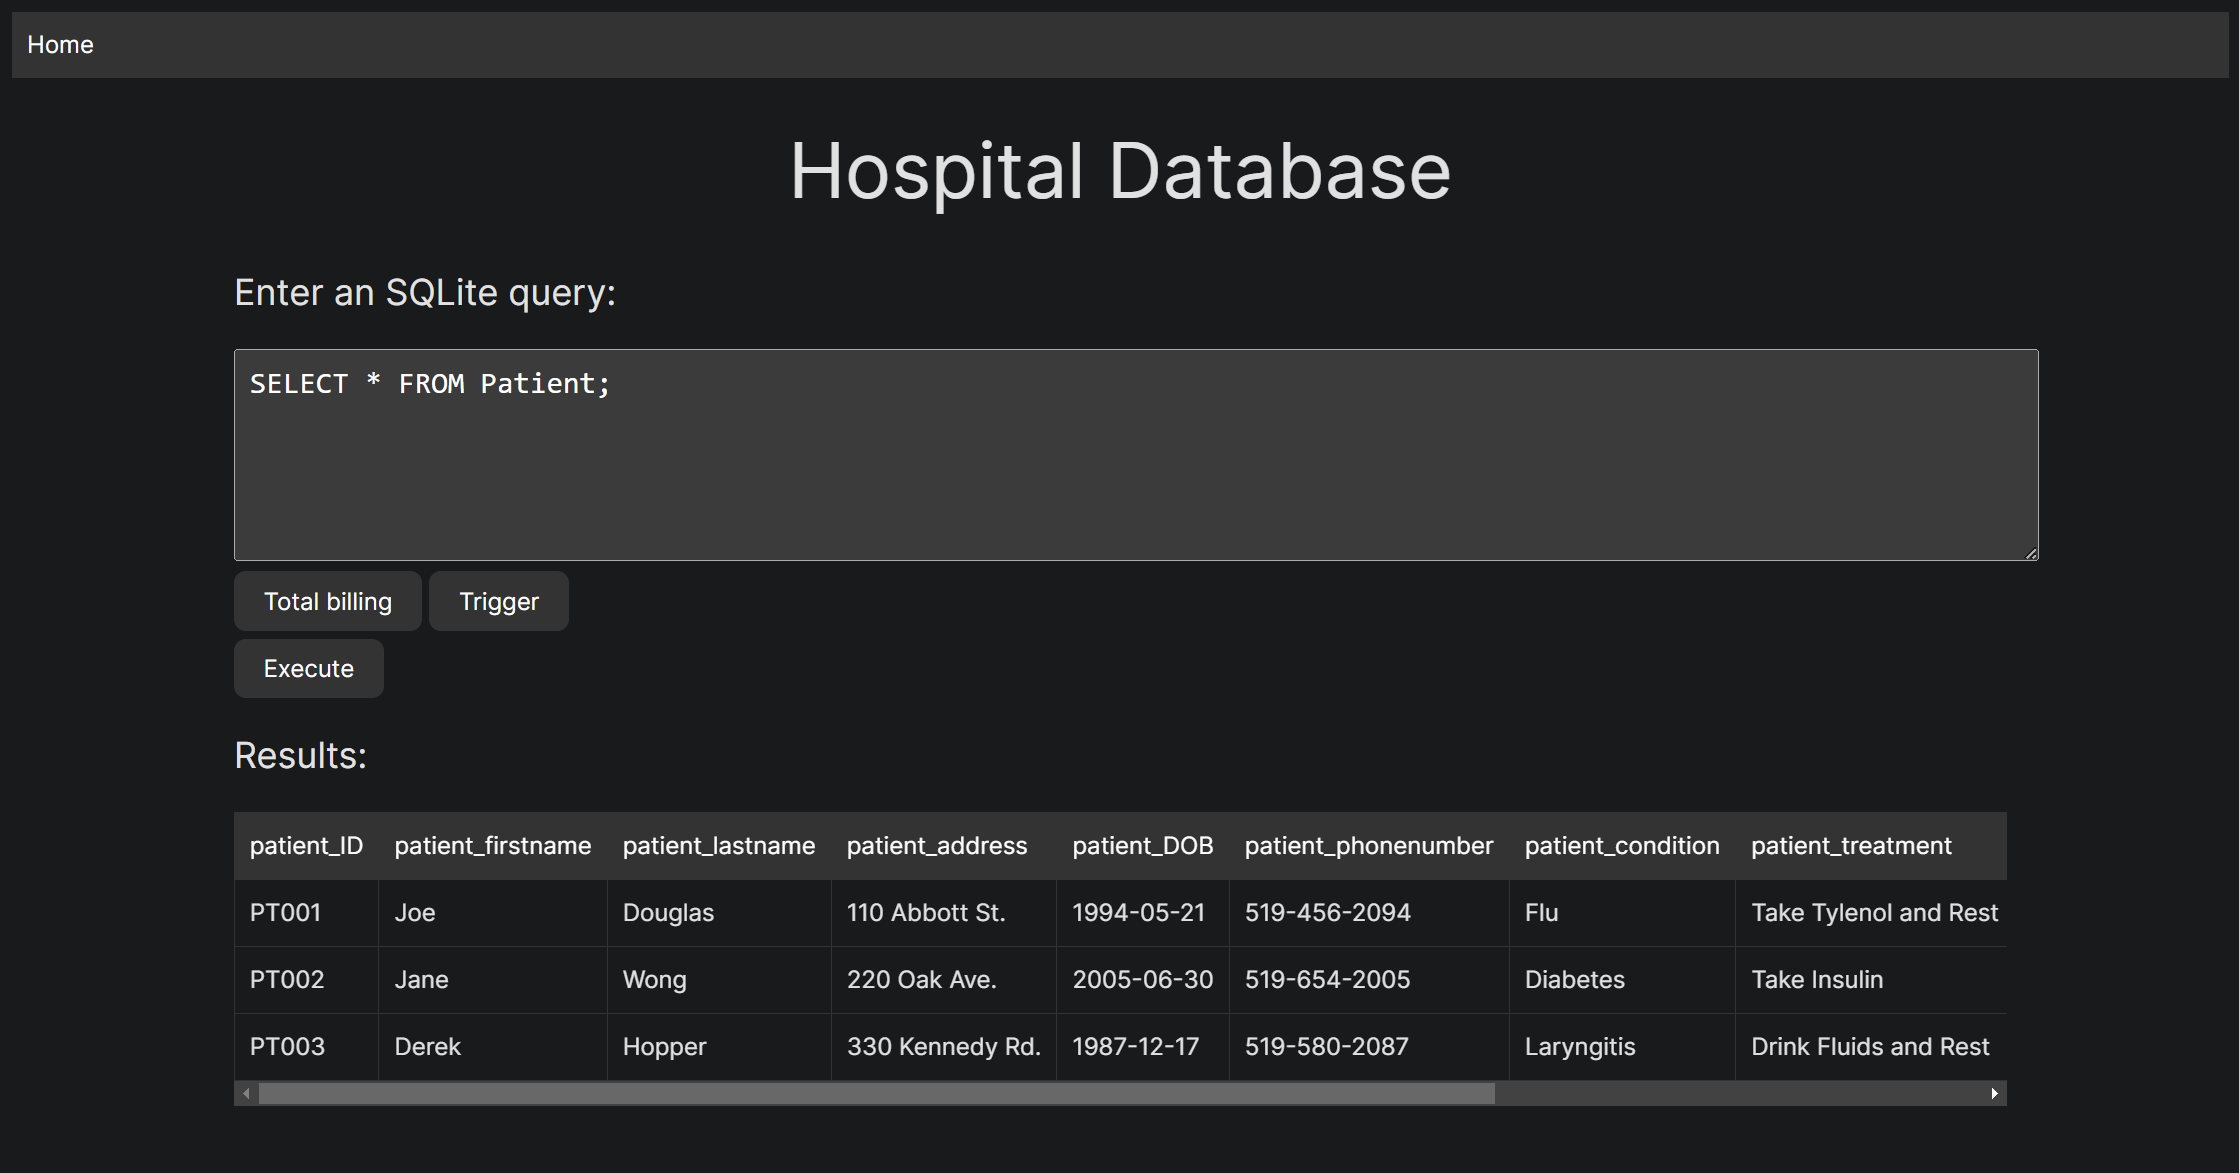
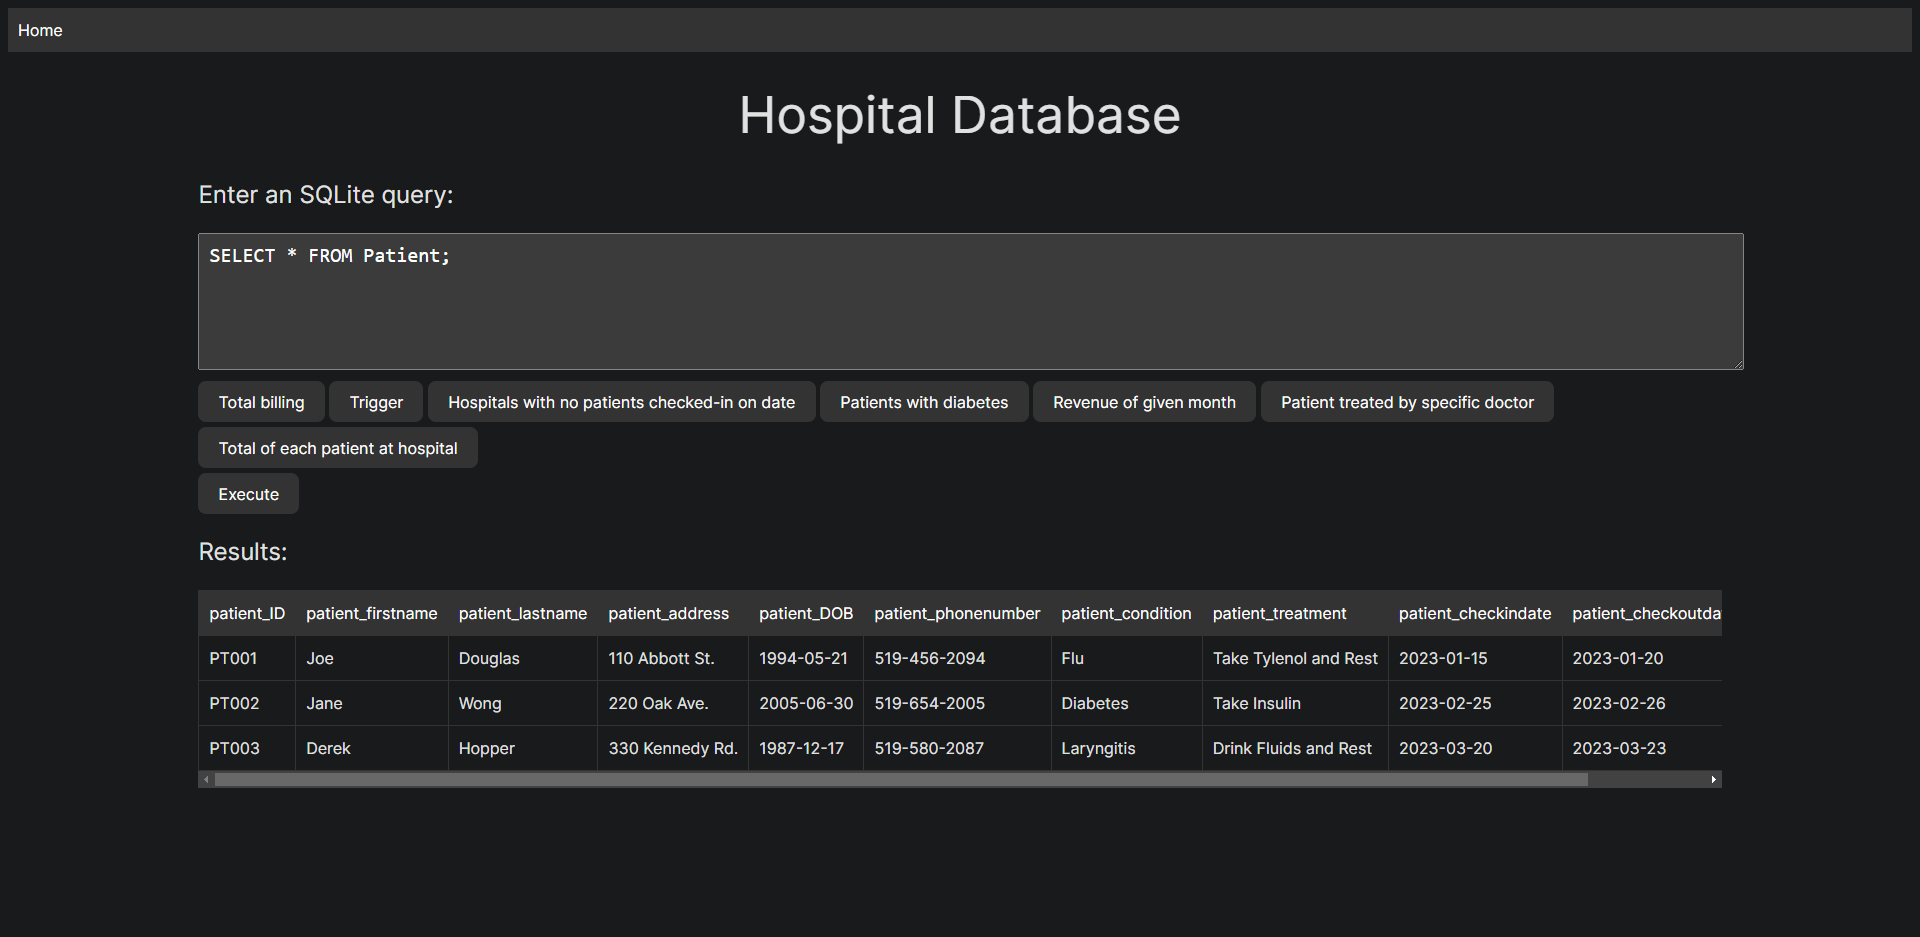
Added tons of queries

Changed region(s): [[0.0938, 0.3714, 0.9375, 0.9594], [0.0, 0.0309, 1.0, 0.1857], [0.0938, 0.1857, 0.9062, 0.3404]]

diff --git a/src/static/style.css b/src/static/style.css
@@ -78,6 +78,8 @@ input[type="submit"] {
   background-color: #333;
   cursor: pointer;
   transition: border-color 0.25s;
+  text-align: left;
+  margin-top: 5px;
 }
 
 button:hover,
@@ -90,10 +92,6 @@ button:focus-visible,
 input[type="submit"]:focus,
 input[type="submit"]:focus-visible {
   outline: 4px auto -webkit-focus-ring-color;
-}
-
-input[type="submit"] {
-  margin-top: 5px;
 }
 
 .error {

diff --git a/src/app.py b/src/app.py
@@ -17,7 +17,8 @@ connection.commit()
 # Define a route for the home page
 @app.route('/', methods=['GET', 'POST'])
 def home():
-    query_dict = {"Total billing": """-- Query 1: Each hospital location's total amount in billing 
+    query_dict = {
+"Total billing": """-- Query 1: Each hospital location's total amount in billing 
 -- Retrieves the total billing amount for each hospital via joining the Hospital and Billing tables first (through hospital_ID)
 -- It calculates the sum total value of billing_amount based on each hospital (uses SUM()) 
 -- Then it joins the Patient table on hospital_ID
@@ -28,6 +29,7 @@ FROM Hospital hospital
 INNER JOIN Billing billing ON patient.patient_ID = billing.patient_ID
 INNER JOIN Patient patient ON hospital.hospital_ID = patient.hospital_ID
 GROUP BY hospital.hospital_name;""",
+
 "Trigger": """-- Query 2: Send Error message/trigger warning when Patient's date of check-in is chronological and valid after their check-out date
 -- 'trigger_validchronDate' is the trigger used to validate a given patient date of hospital check-in when a tuple is newly inputted within table of "Patient"
 -- If a given patient's date of check-in is after ('greater than') their check-out, then a trigger will be thus raised (as it should only be before or on the check-out date)
@@ -38,7 +40,84 @@ FOR EACH ROW
 WHEN NEW.patient_checkindate > NEW.patient_checkoutdate
 BEGIN
     SELECT RAISE(ABORT, 'Error: The patient should check-in on a date that is identical to or before the date they checked out!');
-END;"""}
+END;""",
+
+"Hospitals with no patients checked-in on date" :"""-- Query 3: Display the list of hospitals that have no patients checked-in on a given date, along with their locations.
+-- uses a left join to include all hospitals in the result, and filters out the ones that have patients checked-in on a specific date.
+-- It selects the hospital name and location, and uses the DISTINCT keyword to remove duplicates.
+
+SELECT DISTINCT h.hospital_name, h.hospital_location
+FROM Hospital h
+LEFT JOIN Patient p ON h.hospital_ID = p.hospital_ID
+WHERE p.patient_checkindate <> '2023-03-20' OR p.patient_checkindate IS NULL;""",
+
+"Patients with diabetes": """-- Query 4: retrieves information about patients who have the condition "Diabetes", including their ID, name, condition, treatment, their assigned doctor's ID and name, as well as the name and location of the hospital they're staying in.
+-- The query achieves this by joining the Patient, Patients_Doctors, Doctor, and Hospital tables using their foreign keys.
+-- Uses '||' to concatenate
+
+SELECT 
+    p.patient_ID, 
+    p.patient_firstname || ' ' || p.patient_lastname AS patient_name, 
+    p.patient_condition, 
+    p.patient_treatment, 
+    d.doctor_ID, 
+    d.doctor_firstname || ' ' || d.doctor_lastname AS doctor_name, 
+    h.hospital_name, 
+    h.hospital_location 
+FROM 
+    Patient p 
+    INNER JOIN Patients_Doctors pd ON p.patient_ID = pd.patient_ID 
+    INNER JOIN Doctor d ON pd.doctor_ID = d.doctor_ID 
+    INNER JOIN Hospital h ON p.hospital_ID = h.hospital_ID 
+WHERE 
+    p.patient_condition = 'Diabetes';""",
+
+"Revenue of given month": """-- Query 5: total revenue generated by each hospital and pharmacy in a given month, along with their location
+-- uses a union of two queries to combine the revenue generated by hospitals and pharmacies in a given month
+-- uses left joins to include all hospitals and pharmacies in the result, even if they have no patients
+-- uses the GROUP BY clause to aggregate the billing amounts for each facility, and selects the facility name, location, and revenue
+
+SELECT h.hospital_name AS facility_name, h.hospital_location AS facility_location, SUM(b.billing_amount) AS revenue
+FROM Hospital h
+LEFT JOIN Patient p ON h.hospital_ID = p.hospital_ID
+LEFT JOIN Billing b ON p.patient_ID = b.patient_ID
+WHERE b.billing_date BETWEEN '2023-01-01' AND '2023-01-31'
+GROUP BY h.hospital_ID
+UNION ALL
+SELECT ph.pharmacy_name AS facility_name, ph.pharmacy_location AS facility_location, SUM(b.billing_amount) AS revenue
+FROM Pharmacy ph
+LEFT JOIN Patient p ON ph.pharmacy_ID = p.patient_ID
+LEFT JOIN Billing b ON p.patient_ID = b.patient_ID
+WHERE b.billing_date BETWEEN '2023-01-01' AND '2023-01-31'
+GROUP BY ph.pharmacy_ID;""",
+
+"Patient treated by specific doctor": """-- Query 6: patients who have been treated by a specific doctor and the nurses who have assisted in their treatment
+-- several JOIN statements to connect different tables in the database
+-- use the WHERE clause to filter the results based on the doctor's first and last name
+
+SELECT p.patient_ID, p.patient_firstname, p.patient_lastname, d.doctor_firstname, d.doctor_lastname, n.nurse_firstname, n.nurse_lastname
+FROM Patients_Doctors pd
+JOIN Patient p ON pd.patient_ID = p.patient_ID
+JOIN Doctor d ON pd.doctor_ID = d.doctor_ID
+JOIN Patients_Nurses pn ON pn.patient_ID = p.patient_ID
+JOIN Nurse n ON pn.nurse_ID = n.nurse_ID
+WHERE d.doctor_lastname = 'Smith' AND d.doctor_firstname = 'John';""",
+
+"Total of each patient at hospital": """-- Query 7: retrieves the total amount of money paid by each patient in a particular hospital, along with their primary doctor's name
+-- start with the Patient table and join to the Billing and Payment tables to get the total amount of money paid by each patient.
+-- join to the Patients_Doctors and Doctor tables to get the name of each patient's primary doctor.
+-- use a GROUP BY clause to group the results by patient ID
+-- use the SUM function to calculate the total payment amount for each patient
+
+SELECT p.patient_ID, p.patient_firstname, p.patient_lastname, SUM(pm.payment_amount) AS total_payment_amount, d.doctor_firstname || ' ' || d.doctor_lastname AS primary_doctor_name
+FROM Patient p
+INNER JOIN Billing b ON p.patient_ID = b.patient_ID
+INNER JOIN Payment pm ON b.billing_ID = pm.billing_ID
+INNER JOIN Patients_Doctors pd ON p.patient_ID = pd.patient_ID AND pd.is_primary = 1
+INNER JOIN Doctor d ON pd.doctor_ID = d.doctor_ID
+WHERE p.hospital_ID = 001
+GROUP BY p.patient_ID;"""
+}
     if request.method == 'POST':
         query_text = request.form['query_text']
         try:

diff --git a/README.md b/README.md
@@ -11,6 +11,7 @@
 This project has been created in SQLite 3.39.4. The backend has been created in Flask 2.2.3 (Python 3.11.1).
 
 ## Running
+
 Install Flask:
 
 ```
@@ -18,8 +19,8 @@ pip install flask
 ```
 
 Then, navigate to comp3150-hospital-database/src, execute app.py, and open [http://127.0.0.1:5000](http://127.0.0.1:5000) to view it in the browser.
+_Note: Trigger doesn't currently work on the website, you must test it using SQLite itself._
 
 ## Screenshots
 
-\*Styling and other elements are in the works\*\
 ![Frontpage](/screenshots/frontpage.PNG)
